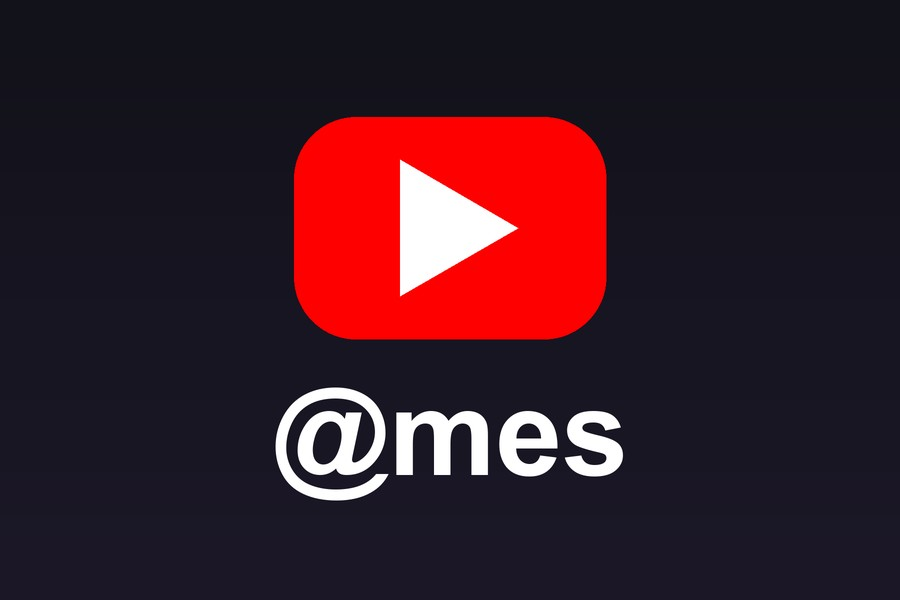
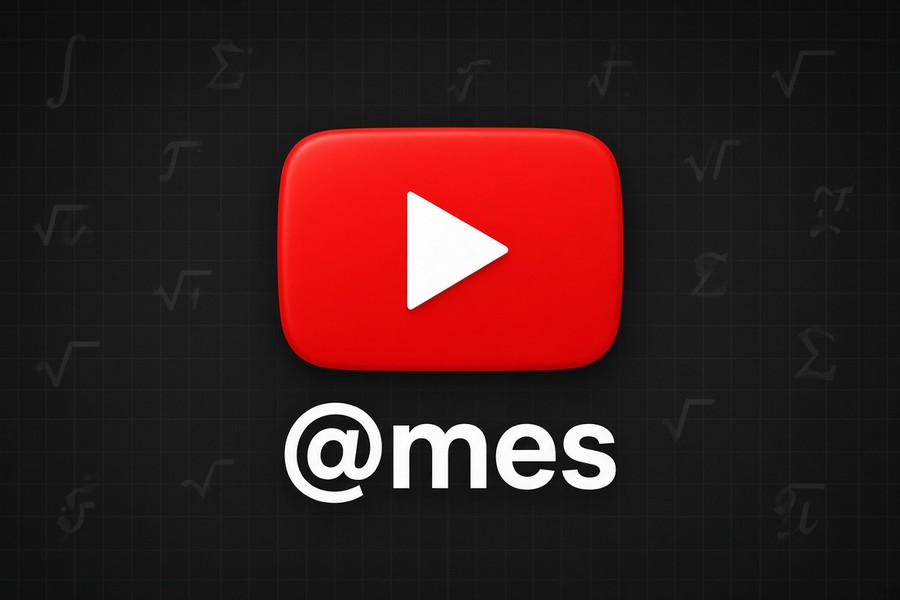
Add the real @mes tile art for math-youtube and link it on mes.fm/links
Swaps the placeholder math-youtube tile and share images for the Grok art (cache-busted via iconVersion 2 and rebuilt /math), and adds mes.fm/math-youtube under Math Tutorials on mes.fm/links. The experiments-draft link was already listed under MES Experiments there.

diff --git a/mes.fm/math/index.html b/mes.fm/math/index.html
@@ -1158,7 +1158,7 @@ body.is-stuck #header-controls { transform: none; bottom: auto; }
 <a class="icon-grid__link icon-grid__link--labeled" href="/spherical-harmonics"><span class="icon-grid__thumb" style="background-image:url('/img/spherical-harmonics-icon.jpg')"></span><span class="icon-grid__label">Spherical Harmonics</span></a>
 <a class="icon-grid__link icon-grid__link--labeled" href="/vectors"><span class="icon-grid__thumb" style="background-image:url('/img/vectors-icon.jpg')"></span><span class="icon-grid__label">Vectors and the Geometry of Space</span></a>
 <a class="icon-grid__link icon-grid__link--labeled" href="/vector-functions"><span class="icon-grid__thumb" style="background-image:url('/img/vector-functions-icon.jpg')"></span><span class="icon-grid__label">Vector Functions</span></a>
-<a class="icon-grid__link icon-grid__link--labeled" href="/math-youtube"><span class="icon-grid__thumb" style="background-image:url('/img/math-youtube-icon.jpg?v=1')"></span><span class="icon-grid__label">MES YouTube: All Videos</span></a>
+<a class="icon-grid__link icon-grid__link--labeled" href="/math-youtube"><span class="icon-grid__thumb" style="background-image:url('/img/math-youtube-icon.jpg?v=2')"></span><span class="icon-grid__label">MES YouTube: All Videos</span></a>
 </div>
 <h2 class="tool-heading">Calculators &amp; Tools</h2>
 <div class="tool-grid">

diff --git a/mes.fm/links/index.html b/mes.fm/links/index.html
@@ -482,6 +482,7 @@
           <li><h2 onclick="toggleList('math')">🤓Math Tutorials<span id="arrowIcon1" class="arrow-icon">▼</span></h2></li>
           <ul id="math">
             <li><a href="https://mes.fm/math">mes.fm/math</a></li>
+            <li style="margin-left: 20px;"><a href="https://mes.fm/math-youtube">mes.fm/math-youtube</a> (all @mes videos, searchable)</li>
             <li><a href="https://www.youtube.com/playlist?list=PLai3U8-WIK0F1GgkU63uA9NIncxDS2q0-">MES Math Q/A Streams ▶</a></li>
             <li><a href="https://peakd.com/hive-128780/@mes/dzekfnxh">Cubic Formula Proof</a> <a href="https://www.youtube.com/playlist?list=PLai3U8-WIK0EF05ExjzLbB64NgUjoV1hl">▶</a></li>
             <li onclick="toggleSubList('infiniteSequence')">
